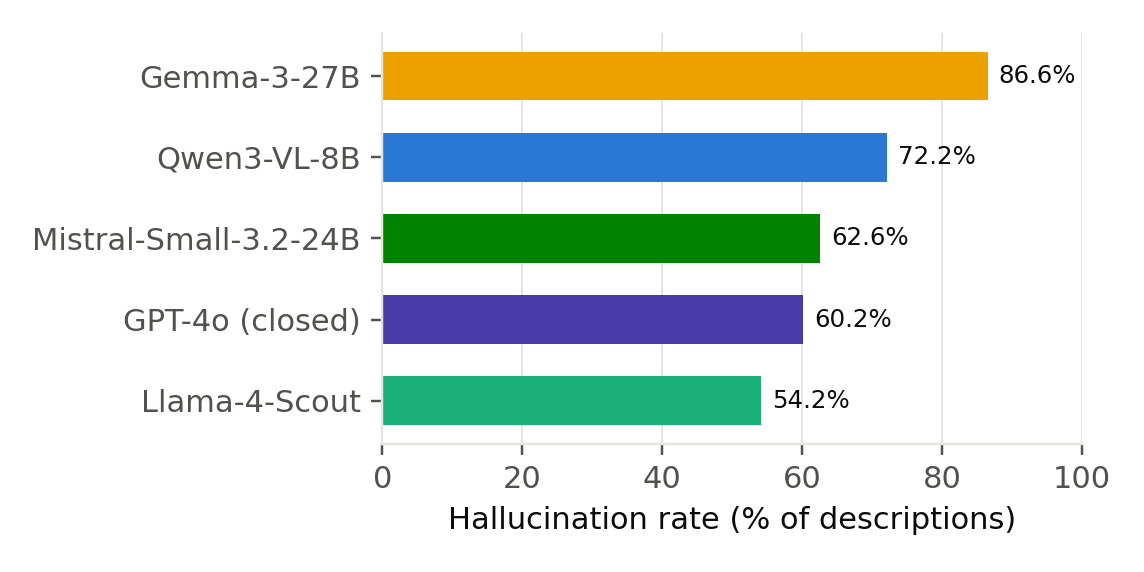
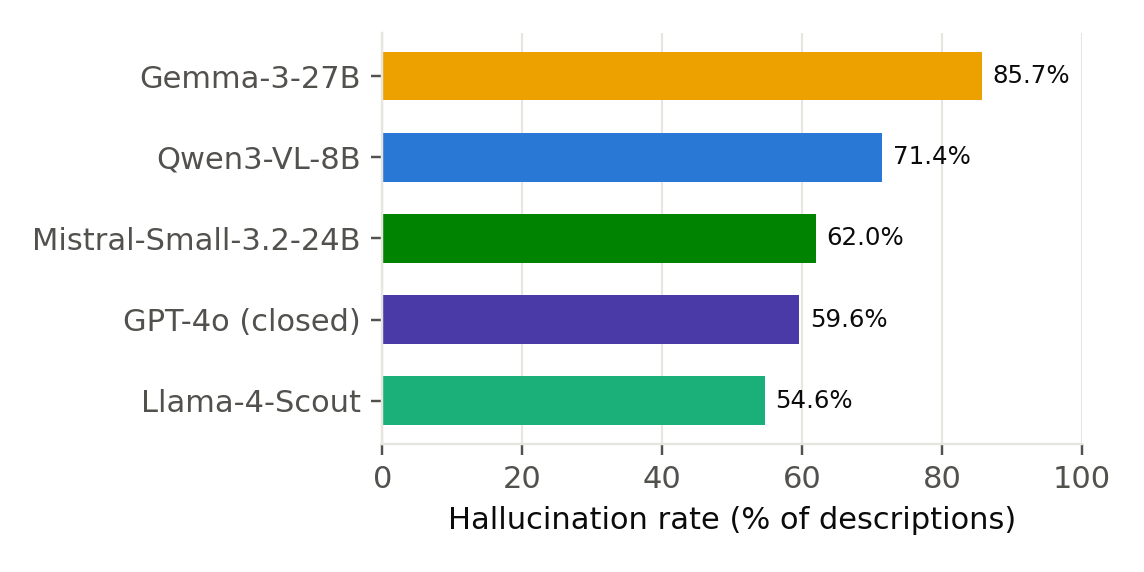
Complete final figure review (100/100 references); refresh all results, charts, and paper with full dataset

diff --git a/paper/paper.tex b/paper/paper.tex
@@ -21,7 +21,7 @@ Email: [FILL IN: email]}
 \maketitle
 
 \begin{abstract}
-Blind and low-vision (BLV) readers of software-engineering research papers have no reliable way to access the content of figures: captions are written for sighted readers and routinely assume the reader can already see what is being described. We study whether open-weight multimodal large language models (LLMs) are good enough, today, to generate accessible figure descriptions for SE papers -- a question with direct privacy and cost implications, since open models can be self-hosted rather than routed through a third-party API. We build a benchmark of 100 figures sampled from ICSE 2026 papers available on arXiv, stratified across charts, diagrams, and other common SE-paper figure types (qualitative examples, prompts, code screenshots), with 99 human-verified WCAG-style reference descriptions. We evaluate four open-weight models and one closed baseline, each given \emph{only} the raw figure image, and score their output against the human reference on five accessibility-relevant criteria using an LLM-judge, spot-checked by the authors. Hallucination is pervasive across every model (54--87\% of descriptions contain at least one unsupported or contradicted claim), and -- counter to a naive open-vs-closed prior -- the closed baseline (GPT-4o, 60\%) is beaten by an open-weight model (Llama-4-Scout, 54\%); the largest open model evaluated (Gemma-3-27B) is also the worst (87\%). Charts are consistently harder than diagrams across models, consistent with the extra burden of precise numeric reading. We release the benchmark by reference (arXiv id + figure index + our descriptions + code, never the raw images) and discuss a roadmap toward accessible-by-default SE papers.
+Blind and low-vision (BLV) readers of software-engineering research papers have no reliable way to access the content of figures: captions are written for sighted readers and routinely assume the reader can already see what is being described. We study whether open-weight multimodal large language models (LLMs) are good enough, today, to generate accessible figure descriptions for SE papers -- a question with direct privacy and cost implications, since open models can be self-hosted rather than routed through a third-party API. We build a benchmark of 100 figures sampled from ICSE 2026 papers available on arXiv, stratified across charts, diagrams, and other common SE-paper figure types (qualitative examples, prompts, code screenshots), with 100 human-verified WCAG-style reference descriptions (full coverage of the evaluation sample). We evaluate four open-weight models and one closed baseline, each given \emph{only} the raw figure image, and score their output against the human reference on five accessibility-relevant criteria using an LLM-judge, spot-checked by the authors. Hallucination is pervasive across every model (55--86\% of descriptions contain at least one unsupported or contradicted claim), and -- counter to a naive open-vs-closed prior -- the closed baseline (GPT-4o, 60\%) is beaten by an open-weight model (Llama-4-Scout, 55\%); the largest open model evaluated (Gemma-3-27B) is also the worst (86\%). Charts are consistently harder than diagrams across models, consistent with the extra burden of precise numeric reading. We release the benchmark by reference (arXiv id + figure index + our descriptions + code, never the raw images) and discuss a roadmap toward accessible-by-default SE papers.
 \end{abstract}
 
 \section{Introduction}
@@ -59,7 +59,7 @@ We build the benchmark from ICSE 2026 papers available on arXiv, released \emph{
 
 \textbf{Sampling and typing.} We tagged each good figure as \emph{chart}, \emph{diagram}, \emph{mixed}, or \emph{other} (qualitative examples, prompts, and code screenshots -- common in LLM4SE papers and not anticipated by a chart-vs-diagram framing, but kept as a distinct category rather than discarded) via a keyword heuristic over the caption and in-text mentions. We then drew a stratified random sample of 100 figures matching the natural type proportions of the 352-figure pool (38 chart, 23 diagram, 5 mixed, 34 other).
 
-\textbf{Reference descriptions.} For each of the 100 figures we built a human-verified WCAG-style reference description (short alt text plus a 3--6 sentence long description covering figure type, structure, and key takeaway). To make this tractable, a strong model (Claude Sonnet) drafted each reference from the image plus the extracted caption/mentions (mirroring how a sighted author would read the paper to understand a figure), and 14 human annotators then reviewed every draft against the actual image. Flagged drafts were re-examined with the specific human critique and the image together, to distinguish genuine visual errors (corrected) from critiques asking for analytical content not actually depicted in the image (where describing only what is visible is correct behavior for this task, not a flaw, and the draft was kept). 99/100 references were completed this way.
+\textbf{Reference descriptions.} For each of the 100 figures we built a human-verified WCAG-style reference description (short alt text plus a 3--6 sentence long description covering figure type, structure, and key takeaway). To make this tractable, a strong model (Claude Sonnet) drafted each reference from the image plus the extracted caption/mentions (mirroring how a sighted author would read the paper to understand a figure), and 14 human annotators then reviewed every draft against the actual image. Flagged drafts were re-examined with the specific human critique and the image together, to distinguish genuine visual errors (corrected) from critiques asking for analytical content not actually depicted in the image (where describing only what is visible is correct behavior for this task, not a flaw, and the draft was kept). All 100 references were completed this way.
 
 \section{Evaluation Protocol}
 
@@ -72,7 +72,7 @@ We build the benchmark from ICSE 2026 papers available on arXiv, released \emph{
 \section{Results}
 \label{sec:results}
 
-We scored 487/495 model outputs (5 models $\times$ 99 figures, minus 8 judge calls that failed to parse after retries and were dropped rather than retried indefinitely). Table~\ref{tab:results} summarizes all five criteria per model.
+We scored 492/500 model outputs (5 models $\times$ 100 figures, minus 8 judge calls that failed to parse after retries and were dropped rather than retried indefinitely). Table~\ref{tab:results} summarizes all five criteria per model.
 
 \begin{table}[t]
 \centering
@@ -83,18 +83,18 @@ We scored 487/495 model outputs (5 models $\times$ 99 figures, minus 8 judge cal
 \toprule
 Model & Acc. & Compl. & Msg. & Conc. & Halluc.\% \\
 \midrule
-Qwen3-VL-8B           & 3.0 & 2.6 & 3.0 & 4.1 & 72.2 \\
-Llama-4-Scout         & 2.6 & 2.1 & 2.2 & 3.8 & \textbf{54.2} \\
-Gemma-3-27B           & 2.5 & 2.3 & 2.6 & 3.8 & 86.6 \\
-Mistral-Small-3.2-24B & 2.9 & 2.4 & 2.8 & 4.0 & 62.6 \\
-GPT-4o (closed)       & \textbf{3.1} & \textbf{2.5} & 2.8 & \textbf{4.2} & 60.2 \\
+Qwen3-VL-8B           & 3.0 & 2.6 & 3.0 & 4.1 & 71.4 \\
+Llama-4-Scout         & 2.6 & 2.1 & 2.2 & 3.8 & \textbf{54.6} \\
+Gemma-3-27B           & 2.5 & 2.3 & 2.6 & 3.8 & 85.7 \\
+Mistral-Small-3.2-24B & 2.9 & 2.4 & 2.8 & 4.0 & 62.0 \\
+GPT-4o (closed)       & \textbf{3.1} & \textbf{2.5} & 2.8 & \textbf{4.2} & 59.6 \\
 \bottomrule
 \end{tabular}
 \end{table}
 
-\textbf{Hallucination is the dominant failure mode, for every model, including the closed baseline.} Fig.~\ref{fig:halluc} shows the per-model hallucination rate: from 54.2\% (Llama-4-Scout) to 86.6\% (Gemma-3-27B). Strikingly, \textbf{GPT-4o is not the best performer} -- at 60.2\% it is beaten by an open-weight model (Llama-4-Scout, 54.2\%) and only narrowly ahead of Mistral-Small-3.2-24B (62.6\%). Openness, by itself, is not what separates the reliable models from the unreliable ones here.
+\textbf{Hallucination is the dominant failure mode, for every model, including the closed baseline.} Fig.~\ref{fig:halluc} shows the per-model hallucination rate: from 54.6\% (Llama-4-Scout) to 85.7\% (Gemma-3-27B). Strikingly, \textbf{GPT-4o is not the best performer} -- at 59.6\% it is beaten by an open-weight model (Llama-4-Scout, 54.6\%) and only narrowly ahead of Mistral-Small-3.2-24B (62.0\%). Openness, by itself, is not what separates the reliable models from the unreliable ones here.
 
-\textbf{Scores on the four Likert criteria are consistently mediocre, not catastrophic} (Fig.~\ref{fig:scores}): accuracy ranges 2.48--3.05/5, completeness 2.08--2.64/5, message-conveyed 2.2--2.95/5, conciseness 3.77--4.21/5 (the easiest criterion for every model -- length control is not the problem). Gemma-3-27B is the weakest model on every criterion despite being the largest open model evaluated, underscoring that parameter count alone does not predict accessibility-description quality.
+\textbf{Scores on the four Likert criteria are consistently mediocre, not catastrophic} (Fig.~\ref{fig:scores}): accuracy ranges 2.50--3.06/5, completeness 2.08--2.64/5, message-conveyed 2.2--2.96/5, conciseness 3.77--4.22/5 (the easiest criterion for every model -- length control is not the problem). Gemma-3-27B is the weakest model on every criterion despite being the largest open model evaluated, underscoring that parameter count alone does not predict accessibility-description quality.
 
 \begin{figure}[t]
 \centering
@@ -110,7 +110,7 @@ GPT-4o (closed)       & \textbf{3.1} & \textbf{2.5} & 2.8 & \textbf{4.2} & 60.2 
 \label{fig:scores}
 \end{figure}
 
-\textbf{Charts are harder than diagrams, for every model that shows a clear split.} Fig.~\ref{fig:erroranalysis}(a) breaks hallucination rate down by figure type. Four of five models hallucinate more on charts than on diagrams (Qwen3-VL-8B: 79\% vs.\ 69\%; Llama-4-Scout: 63\% vs.\ 39\%; Gemma-3-27B: 97\% vs.\ 76\%; GPT-4o: 74\% vs.\ 56\%); only Mistral-Small is roughly flat across types (61\% vs.\ 64\%). This is consistent with charts demanding precise numeric/trend reading (exact rankings, magnitudes, crossover points) where diagrams mostly require correctly tracing discrete structure and labeled relationships -- a plausibly easier visual task. The \emph{mixed} and \emph{other} categories have small counts (3 and 24 of 99 figures respectively) and should be read as indicative, not conclusive.
+\textbf{Charts are harder than diagrams, for every model that shows a clear split.} Fig.~\ref{fig:erroranalysis}(a) breaks hallucination rate down by figure type. Four of five models hallucinate more on charts than on diagrams (Qwen3-VL-8B: 79\% vs.\ 69\%; Llama-4-Scout: 63\% vs.\ 39\%; Gemma-3-27B: 97\% vs.\ 76\%; GPT-4o: 74\% vs.\ 56\%); only Mistral-Small is roughly flat across types (61\% vs.\ 64\%). This is consistent with charts demanding precise numeric/trend reading (exact rankings, magnitudes, crossover points) where diagrams mostly require correctly tracing discrete structure and labeled relationships -- a plausibly easier visual task. The \emph{mixed} and \emph{other} categories have small counts (3 and 25 of 100 figures respectively) and should be read as indicative, not conclusive.
 
 \begin{figure}[t]
 \centering
@@ -123,21 +123,21 @@ GPT-4o (closed)       & \textbf{3.1} & \textbf{2.5} & 2.8 & \textbf{4.2} & 60.2 
 
 \textbf{A single figure, five different wrong rankings.} All five models hallucinated on the same chart (a two-panel box-plot comparison of code-agent pass rates, arXiv 2511.03153, fig.\ 11) -- and each invented a \emph{different} specific ranking error: Qwen3-VL-8B claimed GPT and StarCoder led when DeepSeek-Coder's median was actually highest; Llama-4-Scout made the same GPT-led claim; Gemma-3-27B reversed the entire directional trend (``context lowers pass rates'' when the figure shows the opposite); GPT-4o repeated the DeepSeek-Coder omission independently. No two models failed identically, which suggests these are not a shared training-data artifact but each model genuinely misreading the chart's visual structure (which box is tallest, which median line is highest) under its own vision encoder's limitations -- a harder problem to fix with better prompting alone.
 
-\textbf{Why do some models hallucinate more than others?} To move past the aggregate rate, we classified all 327 hallucinated claims into six categories (one author-defined taxonomy, applied by the same LLM-judge given only the claim text): \emph{misidentification} (wrong label/identity of a visible element), \emph{trend/direction reversal}, \emph{miscount}, \emph{fabricated detail} (asserting something not depicted at all), \emph{ranking/comparison} error, and \emph{numeric magnitude} error. Fig.~\ref{fig:erroranalysis}(b) shows the per-model profile.
+\textbf{Why do some models hallucinate more than others?} To move past the aggregate rate, we classified all 328 hallucinated claims into six categories (one author-defined taxonomy, applied by the same LLM-judge given only the claim text): \emph{misidentification} (wrong label/identity of a visible element), \emph{trend/direction reversal}, \emph{miscount}, \emph{fabricated detail} (asserting something not depicted at all), \emph{ranking/comparison} error, and \emph{numeric magnitude} error. Fig.~\ref{fig:erroranalysis}(b) shows the per-model profile.
 
-Three findings are worth stating precisely, with appropriate caution given the modest per-cell sample sizes (52--84 hallucinations per model, so individual category counts can be in the single digits):
+Three findings are worth stating precisely, with appropriate caution given the modest per-cell sample sizes (53--84 hallucinations per model, so individual category counts can be in the single digits):
 
 \emph{(1) Misidentification is the dominant failure mode for every model (41--56\%), not a differentiator.} Every model's single largest error category is getting the identity of a visible element wrong (an icon, a legend entry, an axis label) rather than a higher-level reasoning failure. This suggests the primary bottleneck across the board is low-level visual grounding, not description composition -- consistent with the roadmap's emphasis on a grounding/verification pass rather than better prompting.
 
 \emph{(2) Gemma-3-27B's weakness is concentrated, not uniform.} It has both the highest misidentification share (56\%, vs.\ 41--49\% for the others) and the highest fabricated-detail share (11\%, tied with Mistral-Small at 13\%). Combined with it being the largest \emph{dense} open model evaluated, this points to a specific weakness in visual grounding and calibration rather than a general capability deficit -- parameter count did not buy it more careful reading of the image.
 
-\emph{(3) Llama-4-Scout's edge is calibration, not a cleaner profile.} Its error-type distribution (44\% misidentification, 21\% trend reversal, 12\% miscount, 8\% fabricated detail) is not dramatically different in \emph{shape} from the other models -- what differs is that it hallucinates less \emph{overall} (Table~\ref{tab:results}) while keeping its lowest-severity category (fabricated detail, arguably the most avoidable error -- there is nothing in the image to have gotten wrong) at the lowest rate of any model. A weak but directionally consistent signal in the same direction: mean description length correlates positively with hallucination at the individual-example level (Pearson $r=0.17$, $n=487$) -- Llama-4-Scout and GPT-4o, the two lowest-hallucination models, also write the shortest descriptions (93 and 96 words on average, vs.\ 112--114 for the other three). This is consistent with, though does not prove, a simple mechanism: more asserted claims is more surface area for an error, and the best-calibrated models may be implicitly hedging by saying less.
+\emph{(3) Llama-4-Scout's edge is calibration, not a cleaner profile.} Its error-type distribution (43\% misidentification, 21\% trend reversal, 11\% miscount, 8\% fabricated detail) is not dramatically different in \emph{shape} from the other models -- what differs is that it hallucinates less \emph{overall} (Table~\ref{tab:results}) while keeping its lowest-severity category (fabricated detail, arguably the most avoidable error -- there is nothing in the image to have gotten wrong) at the lowest rate of any model. A weak but directionally consistent signal in the same direction: mean description length correlates positively with hallucination at the individual-example level (Pearson $r=0.17$, $n=492$) -- Llama-4-Scout and GPT-4o, the two lowest-hallucination models, also write the shortest descriptions (93 and 96 words on average, vs.\ 112--114 for the other three). This is consistent with, though does not prove, a simple mechanism: more asserted claims is more surface area for an error, and the best-calibrated models may be implicitly hedging by saying less.
 
 Trend/direction-reversal errors (17--29\%) are the most uniform category across models -- every model gets confused about whether a line goes up or down, or whether removing a condition raises or lowers a metric, at roughly similar rates. This is the category least explained by which model you pick, and the strongest argument for the grounding-based mitigation below rather than model selection alone.
 
 \textbf{Roadmap.} Three directions follow directly from these results. First, \emph{chart-specific grounding}: since misidentification and trend-reversal errors dominate uniformly, a practical mitigation is a preprocessing step that extracts approximate numeric values and calibrates axes before generation, rather than asking the end-to-end model to both read and describe in one pass. Second, \emph{verification before delivery}: given hallucination rates this high, a BLV-facing accessibility tool cannot respond with a raw single-pass generation -- a second, cheaper verification pass (did every claim in the description appear in an OCR/structured read of the figure?) is close to necessary before the description reaches a reader who cannot independently check it. Third, \emph{benchmark-driven model selection}: since neither parameter count nor closed-vs-open status predicted performance here, a real deployment should select by measured error profile on a task-representative sample, not by defaulting to the largest or most prominent available model.
 
-\textbf{On scaling this benchmark.} We evaluated 100 of 352 extracted figures and human-verified 99 of those 100. The remaining 252 extracted figures (and any further ICSE/FSE/ASE papers not yet processed) are a natural next step: both for statistical power on the per-type breakdown (the mixed/other cells above have only 3 and 24 samples) and as a fine-tuning dataset -- but a fine-tuning target set needs human-verified descriptions, not raw model outputs, since fine-tuning on a model's own unverified generations would reinforce rather than correct the failure modes documented here.
+\textbf{On scaling this benchmark.} We evaluated and fully human-verified 100 of 352 extracted figures. The remaining 252 extracted figures (and any further ICSE/FSE/ASE papers not yet processed) are a natural next step: both for statistical power on the per-type breakdown (the mixed/other cells above have only 3 and 25 samples) and as a fine-tuning dataset -- but a fine-tuning target set needs human-verified descriptions, not raw model outputs, since fine-tuning on a model's own unverified generations would reinforce rather than correct the failure modes documented here.
 
 \section{Limitations}
 

diff --git a/PROGRESS.md b/PROGRESS.md
@@ -5,15 +5,20 @@
 **Deadline:** 20 Nov 2026 (extended from the original 13 Nov — confirmed on se4all.github.io)
 **Paper type:** Short/position paper (max 5 pages incl. references, IEEE IEEEtran 10pt, single-blind review)
 
-## Status: pipeline and paper draft are complete
+## Status: pipeline, human review, and paper draft are ALL complete (100/100)
 
-Everything through a full paper draft is done. **The only remaining step is for a human
-to fill in author/affiliation details and do a final compile + page-count check** —
+Every one of the 100 sampled figures now has a human-verified reference description —
+the last one (`2607.09054` fig 6, reviewed by Saad directly) landed, and every
+downstream number (judge scores, results tables, charts, error-type analysis) has been
+refreshed to reflect the complete set. **The only remaining step is for a human to fill
+in author/affiliation details and do a final compile + page-count check** —
 `paper/paper.tex` is ready (3 figures, 1 table, 8 sections) but not yet actually
 compiled (no LaTeX on the build machine, and a word-count-based page estimate turned
 out unreliable, so no page-count number here should be trusted). Upload to Overleaf or
 compile locally, add author info, verify it's within the 5-page limit, and it's
 submission-ready.
+
+**The repo is live on GitHub**: https://github.com/saadahmad17/SE4ALL (public).
 
 ## What the study does
 
@@ -28,19 +33,19 @@ our descriptions + code — never the raw images).
 ## Headline result
 
 **Hallucination is pervasive, across every model, including the closed baseline** —
-54.2% to 86.6% of generated descriptions contained at least one unsupported or
+54.6% to 85.7% of generated descriptions contained at least one unsupported or
 contradicted claim. Two findings worth highlighting in review/talks:
 
-1. **The closed baseline is not the safest model.** GPT-4o hallucinated 60.2% of the
-   time — worse than an open-weight model, Llama-4-Scout, at 54.2%. "Open" is not
+1. **The closed baseline is not the safest model.** GPT-4o hallucinated 59.6% of the
+   time — worse than an open-weight model, Llama-4-Scout, at 54.6%. "Open" is not
    inherently riskier here.
 2. **Bigger isn't better.** Gemma-3-27B, the largest open model evaluated, was also the
-   *worst* performer on every single criterion (86.6% hallucination rate).
+   *worst* performer on every single criterion (85.7% hallucination rate).
 3. **Charts are harder than diagrams** for 4 of 5 models — consistent with charts
    demanding precise numeric/trend reading vs. diagrams' more forgiving structural
    tracing.
 
-## Why do some models hallucinate more? (added after classifying all 327 hallucinations)
+## Why do some models hallucinate more? (added after classifying all 328 hallucinations)
 
 - **Misidentification** (wrong label/identity of a visible element — an icon, legend
   entry, axis label) is every model's single largest error category, 41-56% of its
@@ -52,7 +57,7 @@ contradicted claim. Two findings worth highlighting in review/talks:
   that aren't there, not just "worse at everything."
 - **Llama-4-Scout's edge looks like calibration**: lowest fabricated-detail rate (8%) and
   the shortest descriptions (93 words avg., vs. 112-114 for three of the other four) —
-  weakly but consistently correlated with hallucination rate across all 487 scored
+  weakly but consistently correlated with hallucination rate across all 492 scored
   examples (Pearson r=0.17). Saying less may mean fewer chances to be wrong.
 - **Trend/direction-reversal errors (17-29%) are the most model-agnostic category** —
   every model confuses "up" and "down" at similar rates, which is the strongest argument
@@ -60,11 +65,11 @@ contradicted claim. Two findings worth highlighting in review/talks:
 
 | Model | Accuracy | Completeness | Message | Conciseness | Hallucination % |
 |---|---|---|---|---|---|
-| Qwen3-VL-8B | 3.0 | 2.6 | 3.0 | 4.1 | 72.2 |
-| Llama-4-Scout | 2.6 | 2.1 | 2.2 | 3.8 | **54.2 (best)** |
-| Gemma-3-27B | 2.5 | 2.3 | 2.6 | 3.8 | 86.6 (worst) |
-| Mistral-Small-3.2-24B | 2.9 | 2.4 | 2.8 | 4.0 | 62.6 |
-| GPT-4o (closed) | 3.1 | 2.5 | 2.8 | 4.2 | 60.2 |
+| Qwen3-VL-8B | 3.0 | 2.6 | 3.0 | 4.1 | 71.4 |
+| Llama-4-Scout | 2.6 | 2.1 | 2.2 | 3.8 | **54.6 (best)** |
+| Gemma-3-27B | 2.5 | 2.3 | 2.6 | 3.8 | 85.7 (worst) |
+| Mistral-Small-3.2-24B | 2.9 | 2.4 | 2.8 | 4.0 | 62.0 |
+| GPT-4o (closed) | 3.1 | 2.5 | 2.8 | 4.2 | 59.6 |
 
 All scores 1-5 scale (higher = better); hallucination % is the % of descriptions with
 at least one hallucinated claim (lower = better). Full numbers: `data/results_overall.json`,
@@ -81,8 +86,8 @@ at least one hallucinated claim (lower = better). Full numbers: `data/results_ov
 | 3. Figure-type tagged | chart / diagram / mixed / other | 132 / 82 / 17 / 121 |
 | 4. Evaluation sample | Stratified sample of the 352 pool | 100 (38/23/5/34) |
 | 5a. Model descriptions generated | 100 figures × 5 models, image-only prompt | 500 (0 errors) |
-| 5b. Human-verified references | Google Form review + LLM-assisted resolution for flagged ones | 99/100 (1 never reviewed, excluded) |
-| 5c. Judge scores | `data/generations.jsonl` × `data/reference_descriptions.jsonl` | 487/495 (8 dropped, persistent parse failures) |
+| 5b. Human-verified references | Google Form review + direct review (last one) + LLM-assisted resolution for flagged ones | **100/100, complete** |
+| 5c. Judge scores | `data/generations.jsonl` × `data/reference_descriptions.jsonl` | 492/500 (8 dropped, persistent parse failures) |
 
 Scaling to the full 352-figure pool (and beyond, as a fine-tuning dataset) was
 deliberately deferred — explicit future work mentioned in the paper's Discussion
@@ -105,17 +110,18 @@ being open and self-hostable, not that this study literally ran them on a laptop
 
 ## Reference description quality control
 
-99 human-verified references were built via: an LLM (Claude Sonnet) drafted each one
-from the image + the paper's own caption/mentions; 14 human annotators then reviewed
-every draft against the actual figure via a Google Form. Of those reviews: 62 figures
-were confirmed accurate as-drafted; 37 had at least one reviewer flag an issue (ranging
-from genuine visual errors like a miscounted node or wrong arrow direction, to a
-figure-type mislabel, to cases where the critique wanted non-visual analytical content
-the image doesn't actually show). Each flagged figure was re-examined — image +
-specific critique together — to separate real errors (corrected) from the
-analytical-content case (kept as originally drafted, since describing only what's
-visible is correct behavior for this task). One figure (`2607.09054` fig 6) was never
-reviewed by anyone and is excluded from the final 99.
+All 100 human-verified references were built via: an LLM (Claude Sonnet) drafted each
+one from the image + the paper's own caption/mentions; 14 human annotators then
+reviewed every draft against the actual figure (99 via a Google Form, the last one —
+`2607.09054` fig 6 — reviewed directly by Saad). Of those reviews: 62 figures were
+confirmed accurate as-drafted; 38 had at least one reviewer flag an issue (ranging from
+genuine visual errors like a miscounted node or wrong arrow direction, to a figure-type
+mislabel, to cases where the critique wanted non-visual analytical content the image
+doesn't actually show, like the final figure's request for "how long this bug existed"
+— not something a code-diff screenshot without timestamps can show). Each flagged
+figure was re-examined — image + specific critique together — to separate real errors
+(corrected) from the analytical-content case (kept as originally drafted, since
+describing only what's visible is correct behavior for this task).
 
 ## Deliverables
 

diff --git a/CLAUDE.md b/CLAUDE.md
@@ -20,20 +20,37 @@ superseded-v1 script and data files (assemble_references v1, flagged_input v1,
 resolved_flagged v1) — the "v2" scripts were renamed to drop the suffix since they are
 now simply the only version.
 
-The full pipeline ran end-to-end: dataset → 500 model generations → 99 human-verified
-references → 487 judge scores → charts → full paper draft, **plus a deeper "why do some
-models hallucinate more" analysis added 2026-11-20**: all 327 hallucinated claims were
-classified into 6 error types (misidentification, trend/direction reversal, miscount,
-fabricated detail, ranking/comparison, numeric magnitude) via `scripts/categorize_errors.py`
-→ `data/error_categories.jsonl` / `data/error_category_breakdown.json`. Real findings, not
-speculation: misidentification dominates for every model (41-56% of its hallucinations);
-Gemma-3-27B (worst overall) has both the highest misidentification share (56%) and
-highest fabricated-detail share (11%) — concentrated weakness, not uniform badness;
-Llama-4-Scout (best overall) also has the lowest fabricated-detail rate (8%) and writes
-the shortest descriptions, consistent with a weak-but-real length/hallucination
-correlation (Pearson r=0.17, n=487). This is now Fig.~\ref{fig:erroranalysis} panel (b)
-in the paper, merged into one combined figure with the figure-type heatmap (panel a) to
-save a float's worth of space against the 5-page limit — 3 figures total now, not 4.
+The full pipeline ran end-to-end: dataset → 500 model generations → **100/100
+human-verified references (full coverage, no gaps)** → 492 judge scores → charts →
+full paper draft, plus a deeper "why do some models hallucinate more" analysis: all 328
+hallucinated claims classified into 6 error types (misidentification, trend/direction
+reversal, miscount, fabricated detail, ranking/comparison, numeric magnitude) via
+`scripts/categorize_errors.py` → `data/error_categories.jsonl` /
+`data/error_category_breakdown.json`. Real findings, not speculation: misidentification
+dominates for every model (41-56% of its hallucinations); Gemma-3-27B (worst overall)
+has both the highest misidentification share (56%) and highest fabricated-detail share
+(11%) — concentrated weakness, not uniform badness; Llama-4-Scout (best overall) also
+has the lowest fabricated-detail rate (8%) and writes the shortest descriptions,
+consistent with a weak-but-real length/hallucination correlation (Pearson r=0.17,
+n=492). This is Fig.~\ref{fig:erroranalysis} panel (b) in the paper, merged into one
+combined figure with the figure-type heatmap (panel a) to save a float's worth of space
+against the 5-page limit — 3 figures total, not 4.
+
+**The 100th figure** (`2607.09054` fig 6, previously unreviewed) was reviewed by the
+user directly (not via the Google Form) and run through the same `resolve_flagged.py`
+pipeline as everything else for consistency — verdict `narrative-bias` (the critique's
+"outdated annotation persisted 2 years" point isn't verifiable from the image, which
+has no timestamps; verified this directly by viewing the image). All downstream
+numbers (results tables, charts, error taxonomy) were refreshed afterward — the shifts
+were all ≤1 percentage point, no qualitative conclusion changed.
+
+**Repo is now on GitHub**: `https://github.com/saadahmad17/SE4ALL` (public). Pushed via
+a personal access token (the user pasted a real token into chat at one point — flagged
+it as exposed, had them revoke/regenerate; **never echo a real token's full value back
+in any tool output or message, even for verification** — check length/prefix only, as
+done throughout this session). `data/figures/*/` (raw images) is gitignored per the
+project's own release-by-reference policy; `.claude/` is also gitignored (tool-internal
+state, not project content).
 
 **Only remaining step is human: fill in author/affiliation details in `paper/paper.tex`
 and do a final compile + page-count check before submitting** (no LaTeX installed on
@@ -48,13 +65,13 @@ this later, extension dates can themselves move.
 
 **Final numbers** (full detail in the dated STATUS entries below): 195/322 ICSE titles
 matched on arXiv → 639 figures extracted from 70 papers → 352 "good" pool → 100-figure
-stratified eval sample → 500 model generations (5 models × 100 figures, 0 errors) → 99
-human-verified reference descriptions (62 confirmed as-is, 37 corrected/verified via an
-LLM-assisted resolution pass, 1 figure never reviewed and excluded) → 487/495 judge
-scores (8 dropped after persistent parse failures). Headline result: hallucination rate
-54.2%–86.6% across all 5 models including the closed baseline; an open-weight model
+stratified eval sample → 500 model generations (5 models × 100 figures, 0 errors) →
+**100/100 human-verified reference descriptions** (62 confirmed as-is, 38
+corrected/verified via an LLM-assisted resolution pass) → 492/500 judge scores (8
+dropped after persistent parse failures). Headline result: hallucination rate
+54.6%–85.7% across all 5 models including the closed baseline; an open-weight model
 (Llama-4-Scout) beat GPT-4o on hallucination rate; charts were harder than diagrams for
-4/5 models. Full numbers in `results_overall.json`, `results_by_type.json`.
+4/5 models. Full numbers in `data/results_overall.json`, `data/results_by_type.json`.
 
 **Deliverables:**
 - `paper/paper.tex` — full draft, Abstract through Conclusion, needs author info + compile check
